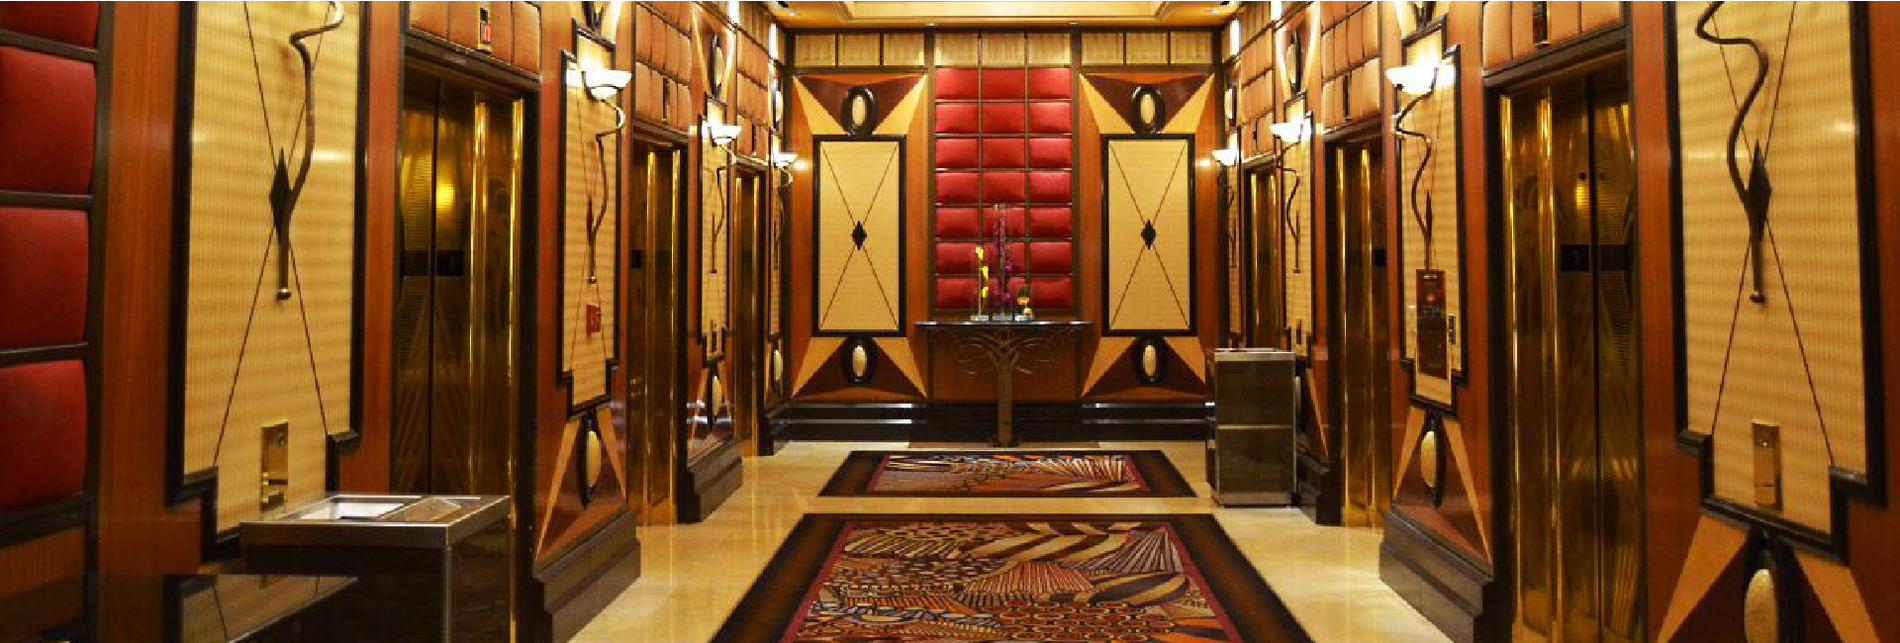
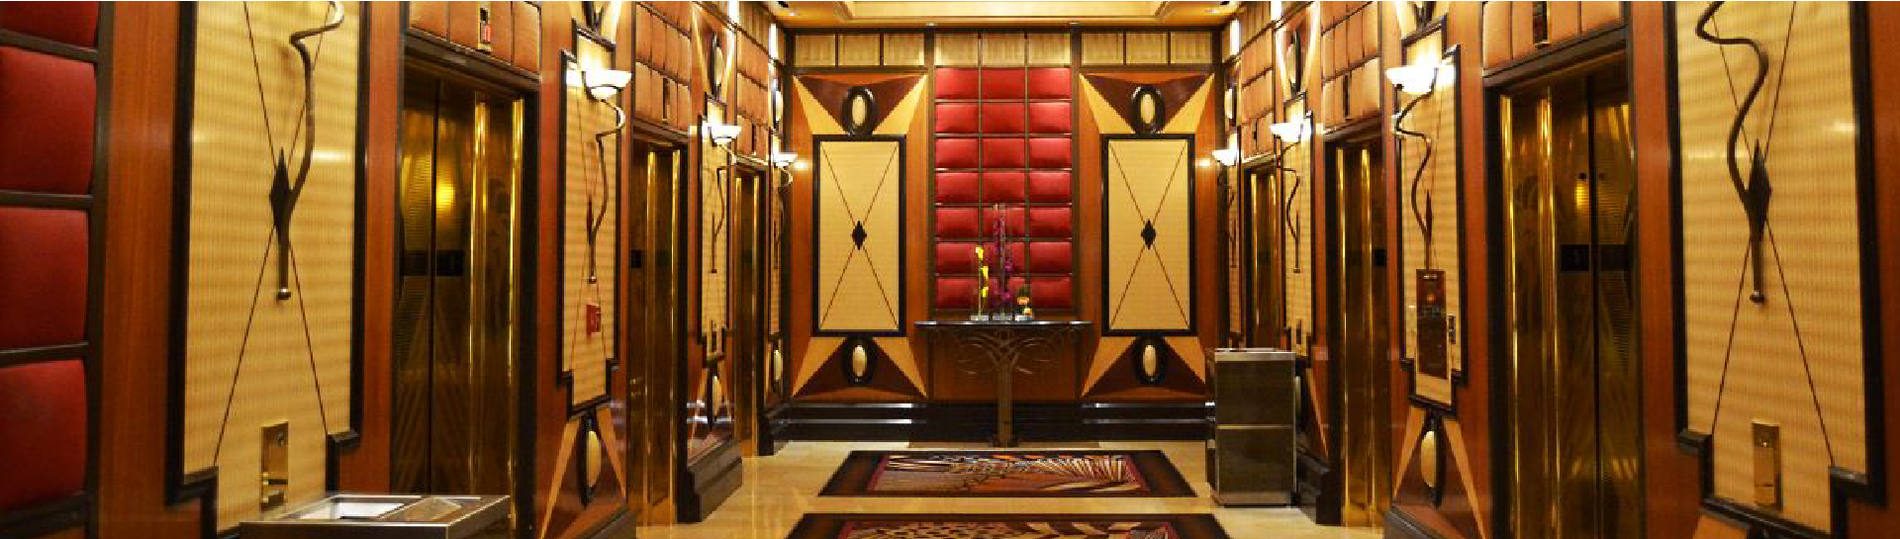
update

diff --git a/css/slot-machine.css b/css/slot-machine.css
@@ -1,1 +1,1 @@
-.version.slot_machine{color:#0000FB;background-color:#064A53;}#page{z-index:1;min-height:1012px;background-image:none;border-width:0px;border-color:#000000;background-color:transparent;padding-bottom:68px;width:100%;max-width:1920px;margin-left:auto;margin-right:auto;}#u1444{z-index:2;background-color:transparent;position:relative;width:100%;}#u1451-4{z-index:49;min-height:59px;background-color:transparent;line-height:60px;color:#000000;text-align:center;font-size:50px;font-family:abril-fatface, serif;font-weight:400;position:relative;width:100%;}#ppu1454-4{z-index:0;width:97.87%;margin-left:1.05%;}#pu1454-4{z-index:4;padding-bottom:0px;margin-right:-10000px;width:30.02%;}#u1454-4{z-index:4;min-height:48px;background-color:transparent;line-height:48px;text-align:center;font-size:40px;font-family:abril-fatface, serif;font-weight:400;position:relative;width:100%;}#u1457{z-index:8;height:438px;border-width:0px;border-color:transparent;background-color:transparent;max-width:100000px;min-width:30px;margin-top:6px;position:relative;width:100%;}#u1462-10{z-index:9;min-height:483px;background-color:#CBBEAE;color:#FFFFFF;text-align:left;position:relative;margin-right:-10000px;margin-top:6px;width:19.91%;left:30.5%;}#u1462-3{font-size:45px;line-height:54px;padding-right:10px;padding-left:10px;font-family:hammersmith-one, sans-serif;font-weight:400;}#u1462,#u1462-4,#u1462-5,#u1462-6{font-size:22px;line-height:26px;padding-right:10px;padding-left:10px;}#u1462-8{font-size:22px;line-height:26px;padding-right:10px;padding-left:10px;font-family:amaranth, sans-serif;font-weight:700;}#ppu1465{z-index:0;margin-right:-10000px;margin-top:4px;width:49.07%;margin-left:50.94%;}#pu1465{z-index:19;width:100%;}#u1465{z-index:19;background-color:transparent;position:relative;margin-right:-10000px;width:33.09%;}#u1467{z-index:21;background-color:transparent;position:relative;margin-right:-10000px;width:33.09%;left:33.52%;}#u1469{z-index:23;background-color:transparent;position:relative;margin-right:-10000px;width:33.09%;left:66.92%;}#pu1471-6{z-index:25;margin-top:5px;width:100%;}#u1471-6{z-index:25;min-height:150px;background-color:#E5E5E5;line-height:24px;font-size:20px;font-family:averia-sans-libre, sans-serif;font-weight:700;position:relative;margin-right:-10000px;width:33.09%;}#u1472-6{z-index:31;min-height:150px;background-color:transparent;line-height:24px;font-size:20px;font-family:averia-sans-libre, sans-serif;font-weight:700;position:relative;margin-right:-10000px;width:33.09%;left:33.41%;}#u1471-2,#u1471-4,#u1472-2,#u1472-4{text-align:center;padding-right:10px;padding-left:10px;}#u1473-6{z-index:37;min-height:150px;background-color:#E5E5E5;line-height:24px;color:#000000;text-align:center;font-size:20px;font-family:averia-sans-libre, sans-serif;font-weight:700;position:relative;margin-right:-10000px;width:33.09%;left:66.92%;}#u1471,#u1472,#u1473,#u1473-2,#u1473-4{padding-right:10px;padding-left:10px;}#pu1502{z-index:43;margin-top:4px;width:100%;}#u1502{z-index:43;background-color:transparent;position:relative;margin-right:-10000px;width:100%;}#u1444_img,#u1465_img,#u1467_img,#u1469_img,#u1502_img{width:100%;}#u1504-4{z-index:45;min-height:57px;background-color:transparent;text-transform:none;line-height:54px;text-align:center;font-size:45px;color:#FFFF00;font-family:cooper-black-std, sans-serif;font-weight:700;font-style:normal;position:relative;margin-right:-10000px;margin-top:46px;width:44.15%;left:4.02%;}.css_verticalspacer .verticalspacer{height:calc(100vh - 1080px);}#muse_css_mq,.html{background-color:#FFFFFF;}body{position:relative;min-width:320px;}
+.version.slot_machine{color:#0000F6;background-color:#8E0B33;}#page{z-index:1;min-height:1012px;background-image:none;border-width:0px;border-color:#000000;background-color:transparent;padding-bottom:68px;width:100%;max-width:1920px;margin-left:auto;margin-right:auto;}#u1444{z-index:2;background-color:transparent;position:relative;width:100%;}#u1451-4{z-index:45;min-height:59px;background-color:transparent;line-height:60px;color:#000000;text-align:center;font-size:50px;font-family:abril-fatface, serif;font-weight:400;position:relative;width:100%;}#ppu1454-4{z-index:0;width:97.87%;margin-left:1.05%;}#pu1454-4{z-index:4;padding-bottom:0px;margin-right:-10000px;width:30.02%;}#u1454-4{z-index:4;min-height:48px;background-color:transparent;line-height:48px;text-align:center;font-size:40px;font-family:abril-fatface, serif;font-weight:400;position:relative;width:100%;}#u1457{z-index:8;height:438px;border-width:0px;border-color:transparent;background-color:transparent;max-width:100000px;min-width:30px;margin-top:6px;position:relative;width:100%;}#u1462-10{z-index:9;min-height:483px;background-color:#CBBEAE;color:#FFFFFF;text-align:left;position:relative;margin-right:-10000px;margin-top:6px;width:19.91%;left:30.5%;}#u1462-3{font-size:45px;line-height:54px;padding-right:10px;padding-left:10px;font-family:hammersmith-one, sans-serif;font-weight:400;}#u1462,#u1462-4,#u1462-5,#u1462-6{font-size:22px;line-height:26px;padding-right:10px;padding-left:10px;}#u1462-8{font-size:22px;line-height:26px;padding-right:10px;padding-left:10px;font-family:amaranth, sans-serif;font-weight:700;}#ppu1465{z-index:0;padding-bottom:0px;margin-right:-10000px;margin-top:4px;width:49.07%;margin-left:50.94%;}#pu1465{z-index:19;width:100%;}#u1465{z-index:19;background-color:transparent;position:relative;margin-right:-10000px;width:33.09%;}#u1467{z-index:21;background-color:transparent;position:relative;margin-right:-10000px;width:33.09%;left:33.52%;}#u1469{z-index:23;background-color:transparent;position:relative;margin-right:-10000px;width:33.09%;left:66.92%;}#pu1471-6{z-index:25;margin-top:5px;width:100%;}#u1471-6{z-index:25;min-height:150px;background-color:#E5E5E5;line-height:24px;font-size:20px;font-family:averia-sans-libre, sans-serif;font-weight:700;position:relative;margin-right:-10000px;width:33.09%;}#u1472-6{z-index:31;min-height:150px;background-color:transparent;line-height:24px;font-size:20px;font-family:averia-sans-libre, sans-serif;font-weight:700;position:relative;margin-right:-10000px;width:33.09%;left:33.41%;}#u1471-2,#u1471-4,#u1472-2,#u1472-4{text-align:center;padding-right:10px;padding-left:10px;}#u1473-6{z-index:37;min-height:150px;background-color:#E5E5E5;line-height:24px;color:#000000;text-align:center;font-size:20px;font-family:averia-sans-libre, sans-serif;font-weight:700;position:relative;margin-right:-10000px;width:33.09%;left:66.92%;}#u1471,#u1472,#u1473,#u1473-2,#u1473-4{padding-right:10px;padding-left:10px;}#pu3984{z-index:43;margin-top:5px;width:100%;}#u3984{z-index:43;background-color:transparent;position:relative;margin-right:-10000px;width:100%;}#u1444_img,#u1465_img,#u1467_img,#u1469_img,#u3984_img{width:100%;}#u3994-4{z-index:49;min-height:57px;background-color:transparent;text-transform:none;line-height:54px;text-align:center;font-size:45px;color:#FFFF00;font-family:abril-fatface, serif;font-weight:700;font-style:normal;position:relative;margin-right:-10000px;margin-top:49px;width:44.15%;left:1.52%;}.css_verticalspacer .verticalspacer{height:calc(100vh - 1080px);}#muse_css_mq,.html{background-color:#FFFFFF;}body{position:relative;min-width:320px;}

diff --git a/css/michael-jackson-one.css b/css/michael-jackson-one.css
@@ -1,1 +1,1 @@
-.version.michael_jackson_one{color:#0000E7;background-color:#285EF1;}#page{z-index:1;min-height:1014.9999999999999px;background-image:none;border-width:0px;border-color:#000000;background-color:transparent;padding-bottom:65.00000000000011px;width:100%;max-width:1920px;margin-left:auto;margin-right:auto;}#u2343{z-index:2;background-color:transparent;position:relative;width:100%;}#ppu2384{z-index:0;margin-top:6px;width:97.5%;margin-left:1.05%;}#pu2384{z-index:51;padding-bottom:0px;margin-right:-10000px;margin-top:30px;width:29.92%;}#u2384{z-index:51;min-height:319px;border-width:0px;border-color:transparent;background-color:transparent;position:relative;width:100%;}#u2372-7{z-index:4;min-height:240px;background-color:#FFFFFF;line-height:28px;color:#000000;font-size:23px;font-family:abril-fatface, serif;font-weight:400;margin-top:10px;position:relative;width:100%;}#u2375-39{z-index:11;min-height:602px;background-color:#000000;color:#FFFFFF;font-family:abril-fatface, serif;font-weight:400;position:relative;margin-right:-10000px;margin-top:1px;width:14.96%;left:30.99%;}#u2375,#u2375-18{font-size:20px;text-align:center;line-height:24px;padding-right:10px;padding-left:10px;}#u2375-2,#u2375-3,#u2375-5,#u2375-20,#u2375-23,#u2375-25,#u2375-30,#u2375-32{font-size:22px;text-align:center;line-height:26px;padding-right:10px;padding-left:10px;}#u2375-4,#u2375-19,#u2375-24,#u2375-31{text-decoration:underline;}#u2375-9,#u2375-11,#u2375-13,#u2375-17,#u2375-22,#u2375-29,#u2375-34,#u2375-36{font-size:18px;text-align:center;line-height:22px;padding-right:10px;padding-left:10px;}#u2375-37{font-size:20px;line-height:24px;}#u2379{z-index:50;height:602px;border-width:0px;border-color:transparent;background-color:transparent;max-width:100000px;min-width:30px;position:relative;margin-right:-10000px;margin-top:1px;width:25.75%;left:45.95%;}#ppu3268{z-index:0;padding-bottom:0px;margin-right:-10000px;width:28%;margin-left:72.01%;}#pu3268{z-index:74;width:95.42%;margin-left:1.15%;}#u3268{z-index:74;background-color:transparent;position:relative;margin-right:-10000px;width:50%;}#u2343_img,#u3268_img{width:100%;}#u3270{z-index:76;display:block;vertical-align:top;position:relative;margin-right:-10000px;margin-top:1px;width:50%;left:50%;}#pu3272{z-index:78;margin-top:-1px;width:95.42%;margin-left:1.15%;}#u3272{z-index:78;display:block;vertical-align:top;position:relative;margin-right:-10000px;width:50%;}#u3274{z-index:80;display:block;vertical-align:top;position:relative;margin-right:-10000px;width:50%;left:50%;}#u3267-22{z-index:52;min-height:283px;background-color:transparent;line-height:19px;font-size:16px;font-family:puritan, sans-serif;font-weight:400;margin-top:3px;position:relative;width:100%;}#u2372,#u2372-3,#u2372-5,#u3267,#u3267-6,#u3267-11,#u3267-16{padding-right:10px;padding-left:10px;}#u3267-5,#u3267-10,#u3267-15,#u3267-20{padding-right:10px;padding-left:10px;line-height:0px;}#u3267-2,#u3267-7,#u3267-12,#u3267-17{font-size:18px;font-family:puritan, sans-serif;font-weight:400;font-style:italic;line-height:22px;}#u3267-3,#u3267-8,#u3267-13,#u3267-18{line-height:19px;}#u3267-4,#u3267-9,#u3267-14,#u3267-19{font-size:15px;line-height:18px;}.css_verticalspacer .verticalspacer{height:calc(100vh - 1080px);}#muse_css_mq,.html{background-color:#FFFFFF;}body{position:relative;min-width:320px;}
+.version.michael_jackson_one{color:#0000E2;background-color:#1ACE55;}#page{z-index:1;min-height:1008.9499999999998px;background-image:none;border-width:0px;border-color:#000000;background-color:transparent;padding-bottom:71.05000000000018px;width:100%;max-width:1920px;margin-left:auto;margin-right:auto;}#u2343{z-index:2;background-color:transparent;position:relative;width:100%;}#ppu2384{z-index:0;width:97.5%;margin-left:1.46%;}#pu2384{z-index:51;padding-bottom:0px;margin-right:-10000px;margin-top:30px;width:29.92%;}#u2384{z-index:51;min-height:319px;border-width:0px;border-color:transparent;background-color:transparent;position:relative;width:100%;}#u2372-7{z-index:4;min-height:240px;background-color:#FFFFFF;line-height:28px;color:#000000;font-size:23px;font-family:abril-fatface, serif;font-weight:400;margin-top:10px;position:relative;width:100%;}#u2375-39{z-index:11;min-height:602px;background-color:#000000;color:#FFFFFF;font-family:abril-fatface, serif;font-weight:400;position:relative;margin-right:-10000px;margin-top:1px;width:14.96%;left:30.99%;}#u2375,#u2375-18{font-size:20px;text-align:center;line-height:24px;padding-right:10px;padding-left:10px;}#u2375-2,#u2375-3,#u2375-5,#u2375-20,#u2375-23,#u2375-25,#u2375-30,#u2375-32{font-size:22px;text-align:center;line-height:26px;padding-right:10px;padding-left:10px;}#u2375-4,#u2375-19,#u2375-24,#u2375-31{text-decoration:underline;}#u2375-9,#u2375-11,#u2375-13,#u2375-17,#u2375-22,#u2375-29,#u2375-34,#u2375-36{font-size:18px;text-align:center;line-height:22px;padding-right:10px;padding-left:10px;}#u2375-37{font-size:20px;line-height:24px;}#u2379{z-index:50;height:602px;border-width:0px;border-color:transparent;background-color:transparent;max-width:100000px;min-width:30px;position:relative;margin-right:-10000px;margin-top:1px;width:25.75%;left:45.95%;}#ppu3268{z-index:0;padding-bottom:0px;margin-right:-10000px;width:28%;margin-left:72.01%;}#pu3268{z-index:74;width:95.42%;margin-left:1.15%;}#u3268{z-index:74;background-color:transparent;position:relative;margin-right:-10000px;width:50%;}#u2343_img,#u3268_img{width:100%;}#u3270{z-index:76;display:block;vertical-align:top;position:relative;margin-right:-10000px;margin-top:1px;width:50%;left:50%;}#pu3272{z-index:78;margin-top:-1px;width:95.42%;margin-left:1.15%;}#u3272{z-index:78;display:block;vertical-align:top;position:relative;margin-right:-10000px;width:50%;}#u3274{z-index:80;display:block;vertical-align:top;position:relative;margin-right:-10000px;width:50%;left:50%;}#u3267-22{z-index:52;min-height:283px;background-color:transparent;line-height:19px;font-size:16px;font-family:puritan, sans-serif;font-weight:400;margin-top:3px;position:relative;width:100%;}#u2372,#u2372-3,#u2372-5,#u3267,#u3267-6,#u3267-11,#u3267-16{padding-right:10px;padding-left:10px;}#u3267-5,#u3267-10,#u3267-15,#u3267-20{padding-right:10px;padding-left:10px;line-height:0px;}#u3267-2,#u3267-7,#u3267-12,#u3267-17{font-size:18px;font-family:puritan, sans-serif;font-weight:400;font-style:italic;line-height:22px;}#u3267-3,#u3267-8,#u3267-13,#u3267-18{line-height:19px;}#u3267-4,#u3267-9,#u3267-14,#u3267-19{font-size:15px;line-height:18px;}.css_verticalspacer .verticalspacer{height:calc(100vh - 1080px);}#muse_css_mq,.html{background-color:#FFFFFF;}body{position:relative;min-width:320px;}

diff --git a/css/tours.css b/css/tours.css
@@ -1,1 +1,1 @@
-.version.tours{color:#000002;background-color:#6B4C20;}#page{z-index:1;min-height:1006.9335106382978px;background-image:none;border-width:0px;border-color:#000000;background-color:transparent;padding-bottom:62.066489361702224px;width:100%;max-width:1920px;margin-left:auto;margin-right:auto;}#pu2231{z-index:2;width:100%;}#u2231{z-index:2;display:block;vertical-align:top;position:relative;margin-right:-10000px;width:100%;}#u2241-4{z-index:4;min-height:66px;background-color:transparent;line-height:96px;color:#FFFFFF;font-size:80px;font-family:abril-fatface, serif;font-weight:400;}#u2241-2{padding-right:10px;padding-left:20px;padding-top:10px;}.js body{visibility:hidden;}.js body.initialized{visibility:visible;}#u2241-4-bw{z-index:4;min-height:66px;margin-top:644px;}#ppu2261{z-index:0;width:100%;}#pu2261{z-index:14;margin-right:-10000px;width:17.92%;margin-left:21.98%;}#u2261{z-index:14;display:block;vertical-align:top;position:relative;margin-right:-10000px;width:100%;}#u2271-4{z-index:16;min-height:77px;background-color:#424242;line-height:42px;color:#FFFFFF;text-align:center;font-size:35px;font-family:bebas-neue, sans-serif;font-weight:400;position:relative;margin-right:-10000px;margin-top:180px;width:100%;}#pu2290{z-index:26;margin-right:-10000px;width:17.92%;margin-left:60.53%;}#u2290{z-index:26;display:block;vertical-align:top;position:relative;margin-right:-10000px;width:100%;}#u2310-4{z-index:30;min-height:77px;background-color:#424242;line-height:42px;color:#FFFFFF;text-align:center;font-size:35px;font-family:bebas-neue, sans-serif;font-weight:400;position:relative;margin-right:-10000px;margin-top:180px;width:100%;}#u2244{z-index:8;background-color:transparent;position:relative;margin-right:-10000px;width:17.92%;left:2.71%;}#u2244_img{width:100%;}#u2257-4{z-index:10;min-height:77px;background-color:#424242;line-height:42px;color:#FFFFFF;text-align:center;font-size:35px;font-family:bebas-neue, sans-serif;font-weight:400;position:relative;margin-right:-10000px;margin-top:180px;width:17.92%;left:2.71%;}#u2274{z-index:20;display:block;vertical-align:top;position:relative;margin-right:-10000px;width:17.92%;left:41.25%;}#u2284-4{z-index:22;min-height:77px;background-color:#424242;line-height:42px;color:#FFFFFF;text-align:center;font-size:35px;font-family:bebas-neue, sans-serif;font-weight:400;position:relative;margin-right:-10000px;margin-top:180px;width:17.92%;left:41.25%;}#u2300{z-index:28;display:block;vertical-align:top;position:relative;margin-right:-10000px;width:17.92%;left:79.8%;}#u2313-4{z-index:34;min-height:77px;background-color:#424242;line-height:42px;color:#FFFFFF;text-align:center;font-size:35px;font-family:bebas-neue, sans-serif;font-weight:400;position:relative;margin-right:-10000px;margin-top:180px;width:17.92%;left:79.8%;}#u2271-2,#u2310-2,#u2257-2,#u2284-2,#u2313-2{padding-top:15px;}.css_verticalspacer .verticalspacer{height:calc(100vh - 1069px);}#muse_css_mq,.html{background-color:#FFFFFF;}body{position:relative;min-width:320px;}
+.version.tours{color:#0000FF;background-color:#5100BD;}#page{z-index:1;min-height:971.6835106382978px;background-image:none;border-width:0px;border-color:#000000;background-color:transparent;padding-bottom:97.31648936170222px;width:100%;max-width:1920px;margin-left:auto;margin-right:auto;}#u2231{z-index:2;display:block;vertical-align:top;position:relative;width:100%;}#u2241-4{z-index:4;min-height:71px;background-color:transparent;line-height:60px;color:#000000;text-align:center;font-size:50px;font-family:abril-fatface, serif;font-weight:400;}#u2241-2{padding-right:10px;padding-left:20px;padding-top:10px;}.js body{visibility:hidden;}.js body.initialized{visibility:visible;}#u2241-4-bw{z-index:4;min-height:71px;}#ppu2261{z-index:0;width:100%;}#pu2261{z-index:14;margin-right:-10000px;width:17.92%;margin-left:21.78%;}#u2261{z-index:14;display:block;vertical-align:top;position:relative;margin-right:-10000px;width:100%;}#u2271-4{z-index:16;min-height:77px;background-color:#424242;line-height:42px;color:#FFFFFF;text-align:center;font-size:35px;font-family:bebas-neue, sans-serif;font-weight:400;position:relative;margin-right:-10000px;margin-top:180px;width:100%;}#pu2290{z-index:26;margin-right:-10000px;width:17.92%;margin-left:60.32%;}#u2290{z-index:26;display:block;vertical-align:top;position:relative;margin-right:-10000px;width:100%;}#u2310-4{z-index:30;min-height:77px;background-color:#424242;line-height:42px;color:#FFFFFF;text-align:center;font-size:35px;font-family:bebas-neue, sans-serif;font-weight:400;position:relative;margin-right:-10000px;margin-top:180px;width:100%;}#u2244{z-index:8;background-color:transparent;position:relative;margin-right:-10000px;width:17.92%;left:2.5%;}#u2244_img{width:100%;}#u2257-4{z-index:10;min-height:77px;background-color:#424242;line-height:42px;color:#FFFFFF;text-align:center;font-size:35px;font-family:bebas-neue, sans-serif;font-weight:400;position:relative;margin-right:-10000px;margin-top:180px;width:17.92%;left:2.5%;}#u2274{z-index:20;display:block;vertical-align:top;position:relative;margin-right:-10000px;width:17.92%;left:41.05%;}#u2284-4{z-index:22;min-height:77px;background-color:#424242;line-height:42px;color:#FFFFFF;text-align:center;font-size:35px;font-family:bebas-neue, sans-serif;font-weight:400;position:relative;margin-right:-10000px;margin-top:180px;width:17.92%;left:41.05%;}#u2300{z-index:28;display:block;vertical-align:top;position:relative;margin-right:-10000px;width:17.92%;left:79.59%;}#u2313-4{z-index:34;min-height:77px;background-color:#424242;line-height:42px;color:#FFFFFF;text-align:center;font-size:35px;font-family:bebas-neue, sans-serif;font-weight:400;position:relative;margin-right:-10000px;margin-top:180px;width:17.92%;left:79.59%;}#u2271-2,#u2310-2,#u2257-2,#u2284-2,#u2313-2{padding-top:15px;}.css_verticalspacer .verticalspacer{height:calc(100vh - 1069px);}#muse_css_mq,.html{background-color:#FFFFFF;}body{position:relative;min-width:320px;}

diff --git a/css/meeting-room.css b/css/meeting-room.css
@@ -1,1 +1,1 @@
-.version.meeting_room{color:#0000FA;background-color:#36ED59;}#page{z-index:1;min-height:1005px;background-image:none;border-width:0px;border-color:#000000;background-color:transparent;padding-bottom:74px;width:100%;max-width:1920px;margin-left:auto;margin-right:auto;}#pu3726{z-index:2;width:100%;}#u3726{z-index:2;background-color:transparent;position:relative;margin-right:-10000px;width:100%;}#u3736-5{z-index:4;min-height:66px;background-color:transparent;line-height:96px;color:#FFFFFF;font-size:80px;font-family:abril-fatface, serif;font-weight:400;}#u3736-3{padding-right:10px;padding-left:20px;padding-top:10px;line-height:0px;}#u3736{line-height:96px;}#u3736-2{font-size:75px;line-height:90px;}.js body{visibility:hidden;}.js body.initialized{visibility:visible;}#u3736-5-bw{z-index:4;min-height:66px;margin-top:394px;}#ppu3739{z-index:0;margin-top:9px;width:100%;}#pu3739{z-index:9;margin-right:-10000px;width:26.05%;margin-left:1.05%;}#u3739{z-index:9;background-color:transparent;position:relative;width:100%;}#u3752{z-index:11;background-color:transparent;margin-top:12px;position:relative;width:100%;}#u3726_img,#u3739_img,#u3752_img{width:100%;}#u3762{z-index:13;background-color:transparent;position:relative;margin-right:-10000px;width:39.54%;left:27.4%;}#u3762_img{width:100.14%;}#u3816-23{z-index:15;min-height:496px;background-color:transparent;position:relative;margin-right:-10000px;width:30.63%;left:67.61%;}#u3816,#u3816-3{font-size:28px;line-height:34px;padding-right:10px;padding-left:10px;font-family:abril-fatface, serif;font-weight:400;}#u3816-6,#u3816-8{font-size:20px;line-height:24px;padding-right:10px;padding-left:10px;font-family:droid-serif, serif;font-weight:400;font-style:italic;}#u3816-4,#u3816-9,#u3816-16{font-size:24px;line-height:29px;padding-right:10px;padding-left:10px;font-family:abril-fatface, serif;font-weight:400;}#u3816-11,#u3816-18{font-size:26px;line-height:31px;padding-right:10px;padding-left:10px;font-family:abril-fatface, serif;font-weight:400;}#u3816-13,#u3816-15,#u3816-20{font-size:22px;line-height:26px;padding-right:10px;padding-left:10px;font-family:abril-fatface, serif;font-weight:400;}#u3816-21{font-size:20px;line-height:24px;}.css_verticalspacer .verticalspacer{height:calc(100vh - 1079px);}#muse_css_mq,.html{background-color:#FFFFFF;}body{position:relative;min-width:320px;}
+.version.meeting_room{color:#0000EE;background-color:#D83E49;}#page{z-index:1;min-height:969px;background-image:none;border-width:0px;border-color:#000000;background-color:transparent;padding-bottom:110px;width:100%;max-width:1920px;margin-left:auto;margin-right:auto;}#u3726{z-index:2;background-color:transparent;position:relative;width:100%;}#u3736-4{z-index:4;min-height:69px;background-color:transparent;line-height:60px;color:#000000;text-align:center;font-size:50px;font-family:abril-fatface, serif;font-weight:400;}#u3736-2{padding-right:10px;padding-left:20px;padding-top:10px;}.js body{visibility:hidden;}.js body.initialized{visibility:visible;}#u3736-4-bw{z-index:4;min-height:69px;}#ppu3739{z-index:0;margin-top:9px;width:100%;}#pu3739{z-index:8;margin-right:-10000px;width:26.05%;margin-left:1.05%;}#u3739{z-index:8;background-color:transparent;position:relative;width:100%;}#u3752{z-index:10;background-color:transparent;margin-top:12px;position:relative;width:100%;}#u3726_img,#u3739_img,#u3752_img{width:100%;}#u3762{z-index:12;background-color:transparent;position:relative;margin-right:-10000px;width:39.54%;left:27.56%;}#u3762_img{width:100.14%;}#u3816-23{z-index:14;min-height:496px;background-color:transparent;position:relative;margin-right:-10000px;width:30.63%;left:67.61%;}#u3816,#u3816-3{font-size:28px;line-height:34px;padding-right:10px;padding-left:10px;font-family:abril-fatface, serif;font-weight:400;}#u3816-6,#u3816-8{font-size:20px;line-height:24px;padding-right:10px;padding-left:10px;font-family:droid-serif, serif;font-weight:400;font-style:italic;}#u3816-4,#u3816-9,#u3816-16{font-size:24px;line-height:29px;padding-right:10px;padding-left:10px;font-family:abril-fatface, serif;font-weight:400;}#u3816-11,#u3816-18{font-size:26px;line-height:31px;padding-right:10px;padding-left:10px;font-family:abril-fatface, serif;font-weight:400;}#u3816-13,#u3816-15,#u3816-20{font-size:22px;line-height:26px;padding-right:10px;padding-left:10px;font-family:abril-fatface, serif;font-weight:400;}#u3816-21{font-size:20px;line-height:24px;}.css_verticalspacer .verticalspacer{height:calc(100vh - 1079px);}#muse_css_mq,.html{background-color:#FFFFFF;}body{position:relative;min-width:320px;}

diff --git a/css/elevator.css b/css/elevator.css
@@ -1,1 +1,1 @@
-.version.elevator{color:#00001C;background-color:#B65A2B;}#page{z-index:1;min-height:1010.5721882515238px;background-image:none;border-width:0px;border-color:#000000;background-color:transparent;padding-bottom:69.42781174847619px;width:100%;max-width:1920px;margin-left:auto;margin-right:auto;}#pu3913{z-index:2;width:100%;}#u3913{z-index:2;display:block;vertical-align:top;position:relative;margin-right:-10000px;width:100%;}#u3938-4{z-index:4;min-height:66px;background-color:transparent;line-height:96px;color:#FFFFFF;font-size:80px;font-family:abril-fatface, serif;font-weight:400;}#u3938-2{padding-right:10px;padding-left:20px;padding-top:10px;}.js body{visibility:hidden;}.js body.initialized{visibility:visible;}#u3938-4-bw{z-index:4;min-height:66px;margin-top:544px;}#pu3941{z-index:8;margin-top:9px;width:100%;}#u3941{z-index:8;background-color:transparent;position:relative;margin-right:-10000px;margin-top:1px;width:31.72%;left:1.67%;}#u3951{z-index:10;background-color:transparent;position:relative;margin-right:-10000px;margin-top:1px;width:29.95%;left:33.75%;}#u3961{z-index:12;background-color:transparent;position:relative;margin-right:-10000px;width:12.14%;left:64.22%;}#u3941_img,#u3951_img,#u3961_img{width:100%;}#u3971{z-index:14;background-color:transparent;position:relative;margin-right:-10000px;margin-top:1px;width:21.46%;left:76.93%;}#u3971_img{width:100.25%;}.css_verticalspacer .verticalspacer{height:calc(100vh - 1080px);}#muse_css_mq,.html{background-color:#FFFFFF;}body{position:relative;min-width:320px;}
+.version.elevator{color:#000002;background-color:#BAFDE1;}#page{z-index:1;min-height:965px;background-image:none;border-width:0px;border-color:#000000;background-color:transparent;padding-bottom:115px;width:100%;max-width:1920px;margin-left:auto;margin-right:auto;}#u3913{z-index:2;display:block;vertical-align:top;position:relative;width:100%;}#u3938-4{z-index:4;min-height:70px;background-color:transparent;line-height:60px;color:#000000;text-align:center;font-size:50px;font-family:abril-fatface, serif;font-weight:400;}#u3938-2{padding-right:10px;padding-left:20px;padding-top:10px;}.js body{visibility:hidden;}.js body.initialized{visibility:visible;}#u3938-4-bw{z-index:4;min-height:70px;}#pu3941{z-index:8;margin-top:-1px;width:100%;}#u3941{z-index:8;background-color:transparent;position:relative;margin-right:-10000px;margin-top:1px;width:31.72%;left:1.52%;}#u3951{z-index:10;background-color:transparent;position:relative;margin-right:-10000px;margin-top:1px;width:29.95%;left:33.49%;}#u3961{z-index:12;background-color:transparent;position:relative;margin-right:-10000px;margin-top:1px;width:12.14%;left:63.91%;}#u3941_img,#u3951_img,#u3961_img{width:100%;}#u3971{z-index:14;background-color:transparent;position:relative;margin-right:-10000px;width:21.46%;left:76.57%;}#u3971_img{width:100.25%;}.css_verticalspacer .verticalspacer{height:calc(100vh - 1080px);}#muse_css_mq,.html{background-color:#FFFFFF;}body{position:relative;min-width:320px;}

diff --git a/css/ballroom.css b/css/ballroom.css
@@ -1,1 +1,1 @@
-.version.ballroom{color:#0000F4;background-color:#5F0DE9;}#page{z-index:1;min-height:1006px;background-image:none;border-width:0px;border-color:#000000;background-color:transparent;padding-bottom:73px;width:100%;max-width:1920px;margin-left:auto;margin-right:auto;}#pu3643{z-index:2;width:100%;}#u3643{z-index:2;background-color:transparent;position:relative;margin-right:-10000px;width:100%;}#u3653-4{z-index:12;min-height:66px;background-color:transparent;line-height:96px;color:#FFFFFF;font-size:80px;font-family:abril-fatface, serif;font-weight:400;}#u3653-2{padding-right:10px;padding-left:20px;padding-top:10px;}.js body{visibility:hidden;}.js body.initialized{visibility:visible;}#u3653-4-bw{z-index:12;min-height:66px;margin-top:464px;}#pu3656{z-index:4;margin-top:11px;width:100%;}#u3656{z-index:4;background-color:transparent;position:relative;margin-right:-10000px;width:44.28%;left:1.05%;}#u3666{z-index:6;background-color:transparent;position:relative;margin-right:-10000px;margin-top:51px;width:18.23%;left:45.89%;}#u3716{z-index:10;background-color:transparent;position:relative;margin-right:-10000px;margin-top:61px;width:18.23%;left:64.48%;}#u3686{z-index:8;background-color:transparent;position:relative;margin-right:-10000px;width:14.9%;left:83.13%;}#u3643_img,#u3656_img,#u3666_img,#u3716_img,#u3686_img{width:100%;}.css_verticalspacer .verticalspacer{height:calc(100vh - 1079px);}#muse_css_mq,.html{background-color:#FFFFFF;}body{position:relative;min-width:320px;}
+.version.ballroom{color:#0000E8;background-color:#F02639;}#page{z-index:1;min-height:964.7711267605633px;background-image:none;border-width:0px;border-color:#000000;background-color:transparent;padding-bottom:114.22887323943667px;width:100%;max-width:1920px;margin-left:auto;margin-right:auto;}#u3643{z-index:2;background-color:transparent;position:relative;width:100%;}#u3653-4{z-index:12;min-height:75px;background-color:transparent;line-height:60px;color:#000000;text-align:center;font-size:50px;font-family:abril-fatface, serif;font-weight:400;}#u3653-2{padding-right:10px;padding-left:20px;padding-top:10px;}.js body{visibility:hidden;}.js body.initialized{visibility:visible;}#u3653-4-bw{z-index:12;min-height:75px;}#pu3656{z-index:4;width:100%;}#u3656{z-index:4;background-color:transparent;position:relative;margin-right:-10000px;width:44.28%;left:1.62%;}#u3666{z-index:6;background-color:transparent;position:relative;margin-right:-10000px;width:18.23%;left:46.25%;}#u3716{z-index:10;background-color:transparent;position:relative;margin-right:-10000px;width:18.23%;left:64.85%;}#u3686{z-index:8;background-color:transparent;position:relative;margin-right:-10000px;width:14.9%;left:83.39%;}#u3643_img,#u3656_img,#u3666_img,#u3716_img,#u3686_img{width:100%;}.css_verticalspacer .verticalspacer{height:calc(100vh - 1079px);}#muse_css_mq,.html{background-color:#FFFFFF;}body{position:relative;min-width:320px;}

diff --git a/css/restroom.css b/css/restroom.css
@@ -1,1 +1,1 @@
-.version.restroom{color:#0000E4;background-color:#B83C68;}#page{z-index:1;min-height:1011.4999999999998px;background-image:none;border-width:0px;border-color:#000000;background-color:transparent;padding-bottom:68.50000000000023px;width:100%;max-width:1920px;margin-left:auto;margin-right:auto;}#pu3820{z-index:2;width:100%;}#u3820{z-index:2;background-color:transparent;position:relative;margin-right:-10000px;width:100%;}#u3840-4{z-index:4;min-height:66px;background-color:transparent;line-height:96px;color:#FFFFFF;font-size:80px;font-family:abril-fatface, serif;font-weight:400;}#u3840-2{padding-right:10px;padding-left:20px;padding-top:10px;}.js body{visibility:hidden;}.js body.initialized{visibility:visible;}#u3840-4-bw{z-index:4;min-height:66px;margin-top:429px;}#pu3843{z-index:8;margin-top:6px;width:100%;}#u3843{z-index:8;background-color:transparent;position:relative;margin-right:-10000px;width:18.6%;left:1.36%;}#u3883{z-index:14;background-color:transparent;position:relative;margin-right:-10000px;margin-top:1px;width:36.41%;left:21.15%;}#u3863{z-index:10;background-color:transparent;position:relative;margin-right:-10000px;width:16.15%;left:58.7%;}#u3873{z-index:12;background-color:transparent;position:relative;margin-right:-10000px;margin-top:1px;width:22.09%;left:76.15%;}#u3820_img,#u3843_img,#u3883_img,#u3863_img,#u3873_img{width:100%;}.css_verticalspacer .verticalspacer{height:calc(100vh - 1080px);}#muse_css_mq,.html{background-color:#FFFFFF;}body{position:relative;min-width:320px;}
+.version.restroom{color:#000006;background-color:#12895B;}#page{z-index:1;min-height:967px;background-image:none;border-width:0px;border-color:#000000;background-color:transparent;padding-bottom:113px;width:100%;max-width:1920px;margin-left:auto;margin-right:auto;}#u3820{z-index:2;background-color:transparent;position:relative;width:100%;}#u3840-4{z-index:4;min-height:73px;background-color:transparent;line-height:60px;color:#000000;text-align:center;font-size:50px;font-family:abril-fatface, serif;font-weight:400;}#u3840-2{padding-right:10px;padding-left:20px;padding-top:10px;}.js body{visibility:hidden;}.js body.initialized{visibility:visible;}#u3840-4-bw{z-index:4;min-height:73px;}#pu3843{z-index:8;width:100%;}#u3843{z-index:8;background-color:transparent;position:relative;margin-right:-10000px;width:18.6%;left:1.36%;}#u3883{z-index:14;background-color:transparent;position:relative;margin-right:-10000px;width:36.41%;left:20.94%;}#u3863{z-index:10;background-color:transparent;position:relative;margin-right:-10000px;width:16.15%;left:58.34%;}#u3873{z-index:12;background-color:transparent;position:relative;margin-right:-10000px;width:22.09%;left:75.53%;}#u3820_img,#u3843_img,#u3883_img,#u3863_img,#u3873_img{width:100%;}.css_verticalspacer .verticalspacer{height:calc(100vh - 1080px);}#muse_css_mq,.html{background-color:#FFFFFF;}body{position:relative;min-width:320px;}

diff --git a/meeting-room.html b/meeting-room.html
@@ -17,7 +17,7 @@ if(typeof Muse == "undefined") window.Muse = {}; window.Muse.assets = {"required
   <title>Meeting Room</title>
   <!-- CSS -->
   <link rel="stylesheet" type="text/css" href="css/site_global.css?crc=3916556066"/>
-  <link rel="stylesheet" type="text/css" href="css/meeting-room.css?crc=4197903705" id="pagesheet"/>
+  <link rel="stylesheet" type="text/css" href="css/meeting-room.css?crc=4007149129" id="pagesheet"/>
   <!-- Other scripts -->
   <script type="text/javascript">
    var __adobewebfontsappname__ = "muse";
@@ -30,14 +30,12 @@ if(typeof Muse == "undefined") window.Muse = {}; window.Muse.assets = {"required
  <body>
 
   <div class="clearfix borderbox" id="page"><!-- column -->
-   <div class="clearfix colelem" id="pu3726"><!-- group -->
-    <div class="clip_frame grpelem" id="u3726"><!-- image -->
-     <img class="block" id="u3726_img" src="images/meeting06-crop-u3726.jpg?crc=3960718038" alt="" data-image-width="1920" data-image-height="500"/>
-    </div>
-    <div class="browser_width grpelem" id="u3736-5-bw">
-     <div class="clearfix" id="u3736-5"><!-- content -->
-      <p id="u3736-3"><span id="u3736">&nbsp;</span><span id="u3736-2">MEETING ROOM</span></p>
-     </div>
+   <div class="clip_frame colelem" id="u3726"><!-- image -->
+    <img class="block" id="u3726_img" src="images/meeting06-crop-u3726.jpg?crc=3879431968" alt="" data-image-width="1920" data-image-height="394"/>
+   </div>
+   <div class="browser_width colelem" id="u3736-4-bw">
+    <div class="clearfix" id="u3736-4"><!-- content -->
+     <p id="u3736-2">&nbsp;MEETING ROOM</p>
     </div>
    </div>
    <div class="clearfix colelem" id="ppu3739"><!-- group -->
@@ -50,7 +48,7 @@ if(typeof Muse == "undefined") window.Muse = {}; window.Muse.assets = {"required
      </div>
     </div>
     <div class="clip_frame grpelem" id="u3762"><!-- image -->
-     <img class="block" id="u3762_img" src="images/meetingroom03-crop-u3762.jpg?crc=197882052" alt="" data-image-width="760" data-image-height="496"/>
+     <img class="block" id="u3762_img" src="images/meetingroom03-crop-u3762.jpg?crc=368708816" alt="" data-image-width="760" data-image-height="496"/>
     </div>
     <div class="clearfix grpelem" id="u3816-23"><!-- content -->
      <p id="u3816">&nbsp;</p>
@@ -68,7 +66,7 @@ if(typeof Muse == "undefined") window.Muse = {}; window.Muse.assets = {"required
      <p id="u3816-21">&nbsp;</p>
     </div>
    </div>
-   <div class="verticalspacer" data-offset-top="1005" data-content-above-spacer="1004" data-content-below-spacer="75"></div>
+   <div class="verticalspacer" data-offset-top="1005" data-content-above-spacer="968" data-content-below-spacer="111"></div>
   </div>
   <!-- Other scripts -->
   <script type="text/javascript">

diff --git a/tours.html b/tours.html
@@ -17,7 +17,7 @@ if(typeof Muse == "undefined") window.Muse = {}; window.Muse.assets = {"required
   <title>Tours</title>
   <!-- CSS -->
   <link rel="stylesheet" type="text/css" href="css/site_global.css?crc=3916556066"/>
-  <link rel="stylesheet" type="text/css" href="css/tours.css?crc=40586272" id="pagesheet"/>
+  <link rel="stylesheet" type="text/css" href="css/tours.css?crc=4283498685" id="pagesheet"/>
   <!-- Other scripts -->
   <script type="text/javascript">
    var __adobewebfontsappname__ = "muse";
@@ -30,12 +30,10 @@ if(typeof Muse == "undefined") window.Muse = {}; window.Muse.assets = {"required
  <body>
 
   <div class="clearfix borderbox" id="page"><!-- column -->
-   <div class="clearfix colelem" id="pu2231"><!-- group -->
-    <img class="grpelem" id="u2231" alt="" src="images/hoover-dam-tour-1024x696-u2231.png?crc=335548671" data-image-width="1920"/><!-- rasterized frame -->
-    <div class="browser_width grpelem" id="u2241-4-bw">
-     <div class="clearfix" id="u2241-4"><!-- content -->
-      <p id="u2241-2">TOURS</p>
-     </div>
+   <img class="colelem" id="u2231" alt="" src="images/hoover-dam-tour-1024x696-u2231.png?crc=4152601522" data-image-width="1920"/><!-- rasterized frame -->
+   <div class="browser_width colelem" id="u2241-4-bw">
+    <div class="clearfix" id="u2241-4"><!-- content -->
+     <p id="u2241-2">TOURS</p>
     </div>
    </div>
    <div class="clearfix colelem" id="ppu2261"><!-- group -->
@@ -57,7 +55,7 @@ if(typeof Muse == "undefined") window.Muse = {}; window.Muse.assets = {"required
     <div class="clearfix grpelem" id="u2257-4"><!-- content -->
      <p id="u2257-2">HOOVER DAM TOUR</p>
     </div>
-    <img class="grpelem" id="u2274" alt="" src="images/city-lights-image-u2274.png?crc=480958033" data-image-width="344"/><!-- rasterized frame -->
+    <img class="grpelem" id="u2274" alt="" src="images/city-lights-image-u2274.png?crc=4072275481" data-image-width="344"/><!-- rasterized frame -->
     <div class="clearfix grpelem" id="u2284-4"><!-- content -->
      <p id="u2284-2">LAS VEGAS CITY TOUR</p>
     </div>
@@ -66,7 +64,7 @@ if(typeof Muse == "undefined") window.Muse = {}; window.Muse.assets = {"required
      <p id="u2313-2">A VALLEY OF FIRE TOUR</p>
     </div>
    </div>
-   <div class="verticalspacer" data-offset-top="1007" data-content-above-spacer="1007" data-content-below-spacer="62"></div>
+   <div class="verticalspacer" data-offset-top="972" data-content-above-spacer="972" data-content-below-spacer="97"></div>
   </div>
   <!-- Other scripts -->
   <script type="text/javascript">

diff --git a/slot-machine.html b/slot-machine.html
@@ -17,14 +17,14 @@ if(typeof Muse == "undefined") window.Muse = {}; window.Muse.assets = {"required
   <title>Slot Machine</title>
   <!-- CSS -->
   <link rel="stylesheet" type="text/css" href="css/site_global.css?crc=3916556066"/>
-  <link rel="stylesheet" type="text/css" href="css/slot-machine.css?crc=4211493459" id="pagesheet"/>
+  <link rel="stylesheet" type="text/css" href="css/slot-machine.css?crc=4136504115" id="pagesheet"/>
   <!-- Other scripts -->
   <script type="text/javascript">
    var __adobewebfontsappname__ = "muse";
 </script>
   <!-- JS includes -->
   <script type="text/javascript">
-   document.write('\x3Cscript src="' + (document.location.protocol == 'https:' ? 'https:' : 'http:') + '//webfonts.creativecloud.com/hammersmith-one:n4:default;amaranth:n7:default;cooper-black-std:n4:default;abril-fatface:n4:default;averia-sans-libre:n7:default.js" type="text/javascript">\x3C/script>');
+   document.write('\x3Cscript src="' + (document.location.protocol == 'https:' ? 'https:' : 'http:') + '//webfonts.creativecloud.com/hammersmith-one:n4:default;amaranth:n7:default;abril-fatface:n4:default;averia-sans-libre:n7:default.js" type="text/javascript">\x3C/script>');
 </script>
    </head>
  <body>
@@ -84,11 +84,11 @@ if(typeof Muse == "undefined") window.Muse = {}; window.Muse.assets = {"required
        <p id="u1473-4">Play from 1¢ to $500 on your choice of traditional slot machines</p>
       </div>
      </div>
-     <div class="clearfix colelem" id="pu1502"><!-- group -->
-      <div class="clip_frame grpelem" id="u1502"><!-- image -->
-       <img class="block" id="u1502_img" src="images/luxor-casino-table-games-pair-dice-crop-u1502.jpg?crc=4152364246" alt="" data-image-width="922" data-image-height="156"/>
+     <div class="clearfix colelem" id="pu3984"><!-- group -->
+      <div class="clip_frame grpelem" id="u3984"><!-- image -->
+       <img class="block" id="u3984_img" src="images/luxor-casino-table-games-pair-dice-crop-u3984.jpg?crc=4152364246" alt="" data-image-width="922" data-image-height="156"/>
       </div>
-      <div class="clearfix grpelem" id="u1504-4"><!-- content -->
+      <div class="clearfix grpelem" id="u3994-4"><!-- content -->
        <p>PLAY FOR FUN</p>
       </div>
      </div>

diff --git a/restroom.html b/restroom.html
@@ -17,7 +17,7 @@ if(typeof Muse == "undefined") window.Muse = {}; window.Muse.assets = {"required
   <title>Restroom</title>
   <!-- CSS -->
   <link rel="stylesheet" type="text/css" href="css/site_global.css?crc=3916556066"/>
-  <link rel="stylesheet" type="text/css" href="css/restroom.css?crc=3837279336" id="pagesheet"/>
+  <link rel="stylesheet" type="text/css" href="css/restroom.css?crc=101878107" id="pagesheet"/>
   <!-- Other scripts -->
   <script type="text/javascript">
    var __adobewebfontsappname__ = "muse";
@@ -30,14 +30,12 @@ if(typeof Muse == "undefined") window.Muse = {}; window.Muse.assets = {"required
  <body>
 
   <div class="clearfix borderbox" id="page"><!-- column -->
-   <div class="clearfix colelem" id="pu3820"><!-- group -->
-    <div class="clip_frame grpelem" id="u3820"><!-- image -->
-     <img class="block" id="u3820_img" src="images/restroom01-crop-u3820.jpg?crc=3824241906" alt="" data-image-width="1920" data-image-height="540"/>
-    </div>
-    <div class="browser_width grpelem" id="u3840-4-bw">
-     <div class="clearfix" id="u3840-4"><!-- content -->
-      <p id="u3840-2">&nbsp;RESTROOM</p>
-     </div>
+   <div class="clip_frame colelem" id="u3820"><!-- image -->
+    <img class="block" id="u3820_img" src="images/restroom01-crop-u3820.jpg?crc=196481568" alt="" data-image-width="1920" data-image-height="429"/>
+   </div>
+   <div class="browser_width colelem" id="u3840-4-bw">
+    <div class="clearfix" id="u3840-4"><!-- content -->
+     <p id="u3840-2">&nbsp;RESTROOM</p>
     </div>
    </div>
    <div class="clearfix colelem" id="pu3843"><!-- group -->
@@ -54,7 +52,7 @@ if(typeof Muse == "undefined") window.Muse = {}; window.Muse.assets = {"required
      <img class="block" id="u3873_img" src="images/parisbathroom.jpg?crc=4164180654" alt="" data-image-width="424" data-image-height="465"/>
     </div>
    </div>
-   <div class="verticalspacer" data-offset-top="1012" data-content-above-spacer="1011" data-content-below-spacer="69"></div>
+   <div class="verticalspacer" data-offset-top="1012" data-content-above-spacer="966" data-content-below-spacer="114"></div>
   </div>
   <!-- Other scripts -->
   <script type="text/javascript">

diff --git a/ballroom.html b/ballroom.html
@@ -17,7 +17,7 @@ if(typeof Muse == "undefined") window.Muse = {}; window.Muse.assets = {"required
   <title>Ballroom</title>
   <!-- CSS -->
   <link rel="stylesheet" type="text/css" href="css/site_global.css?crc=3916556066"/>
-  <link rel="stylesheet" type="text/css" href="css/ballroom.css?crc=4099870185" id="pagesheet"/>
+  <link rel="stylesheet" type="text/css" href="css/ballroom.css?crc=3908052537" id="pagesheet"/>
   <!-- Other scripts -->
   <script type="text/javascript">
    var __adobewebfontsappname__ = "muse";
@@ -30,14 +30,12 @@ if(typeof Muse == "undefined") window.Muse = {}; window.Muse.assets = {"required
  <body>
 
   <div class="clearfix borderbox" id="page"><!-- column -->
-   <div class="clearfix colelem" id="pu3643"><!-- group -->
-    <div class="clip_frame grpelem" id="u3643"><!-- image -->
-     <img class="block" id="u3643_img" src="images/ballroom-crop-u3643.jpg?crc=3996174318" alt="" data-image-width="1920" data-image-height="570"/>
-    </div>
-    <div class="browser_width grpelem" id="u3653-4-bw">
-     <div class="clearfix" id="u3653-4"><!-- content -->
-      <p id="u3653-2">BALLROOM</p>
-     </div>
+   <div class="clip_frame colelem" id="u3643"><!-- image -->
+    <img class="block" id="u3643_img" src="images/ballroom-crop-u3643.jpg?crc=534968991" alt="" data-image-width="1920" data-image-height="464"/>
+   </div>
+   <div class="browser_width colelem" id="u3653-4-bw">
+    <div class="clearfix" id="u3653-4"><!-- content -->
+     <p id="u3653-2">BALLROOM</p>
     </div>
    </div>
    <div class="clearfix colelem" id="pu3656"><!-- group -->
@@ -54,7 +52,7 @@ if(typeof Muse == "undefined") window.Muse = {}; window.Muse.assets = {"required
      <img class="block" id="u3686_img" src="images/ballroom04.jpg?crc=3921418492" alt="" data-image-width="286" data-image-height="426"/>
     </div>
    </div>
-   <div class="verticalspacer" data-offset-top="1006" data-content-above-spacer="1006" data-content-below-spacer="73"></div>
+   <div class="verticalspacer" data-offset-top="1006" data-content-above-spacer="965" data-content-below-spacer="114"></div>
   </div>
   <!-- Other scripts -->
   <script type="text/javascript">
